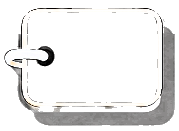
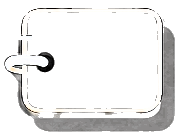
docs(website): plain-language openers, 'elements' instead of markup, Run again keeps typed code, symmetric binder, drop the sidebar mark and the More-from strip

diff --git a/website/scripts/witness.ts b/website/scripts/witness.ts
@@ -718,6 +718,15 @@ try {
 					(await input.inputValue()).includes('let cups = state(0)'),
 				'Code: Reset restores the starter and clears the error',
 			);
+			await retype(codePage, block, 'let cups = state(0)', 'let cups = state(7)');
+			const typed = await input.inputValue();
+			await block.getByRole('button', { name: 'Run again' }).click();
+			await codePage.waitForTimeout(800);
+			check(
+				(await input.inputValue()) === typed && typed.includes('state(7)'),
+				'Code: Run again re-runs the preview and keeps the typed code',
+			);
+			await block.getByRole('button', { name: 'Reset code' }).click();
 			const fullScreen = block.getByRole('button', { name: 'Full screen' });
 			await fullScreen.click();
 			const covered = await block
@@ -1333,20 +1342,6 @@ try {
 			(await heroMug.getAttribute('data-docs-mug')) === 'true',
 			'the landing hero is the Markless mug, and it follows the pointer',
 			String(await heroMug.getAttribute('data-variant')),
-		);
-		const siblingMascots = await page.locator('.more-from img.mascot').evaluateAll((nodes) =>
-			nodes.map((node) => ({
-				src: (node as HTMLImageElement).getAttribute('src'),
-				width: (node as HTMLImageElement).naturalWidth,
-			})),
-		);
-		const tileMugs = await page.locator('.more-from .markless-mug svg.mug').count();
-		check(
-			siblingMascots.length === 3 &&
-				siblingMascots.every((one) => one.width > 0) &&
-				tileMugs === 1,
-			'the More from compiled.run strip shows the Markless mug and three mascots that decode',
-			`${tileMugs} mug, ` + siblingMascots.map((one) => `${one.src}:${one.width}`).join(' '),
 		);
 		const sprites = await page
 			.locator('.sprite img.sprite-ink-light')

diff --git a/website/nav.ts b/website/nav.ts
@@ -48,7 +48,7 @@ export const nav: readonly NavSection[] = [
 				icon: 'what-is-markless',
 				number: '1',
 				description:
-					'What Markless is: components are plain TypeScript functions, state() makes the page follow a value, and one component renders anywhere: a browser, a server, a test or a native screen.',
+					'What Markless is: plain TypeScript, state() keeps the page in step with a value, and the same code runs in a browser, on a server or on your phone.',
 			},
 			{
 				title: 'Your first app',
@@ -57,7 +57,7 @@ export const nav: readonly NavSection[] = [
 				icon: 'first-app',
 				number: '2',
 				description:
-					'Create a multi-page app with npm create markless, start it, and learn the starters, scripts and flags.',
+					'Make a new app with one command, open it in your browser, and change it.',
 			},
 			{
 				title: 'Use Markless in the browser',
@@ -830,7 +830,7 @@ export const uiNav: readonly NavSection[] = [
 				sprite: 'hash',
 				number: '2',
 				description:
-					'A real table with sortable column headers, where the sort state lives on the family and lands in the markup.',
+					'A real table with sortable column headers, where the sort state lives on the family and lands in the elements.',
 			},
 			{
 				title: 'resizable',

diff --git a/website/boxes/sidebar-spa.box.ts b/website/boxes/sidebar-spa.box.ts
@@ -16,7 +16,7 @@ export default box(
 		await expect.page.text(page, 'h1', 'Write a variable. The page follows it.', WAIT);
 		await page.click('.sidebar-summary', WAIT);
 		await page.click('.sidebar a[href="/start/first-app"]', WAIT);
-		await expect.page.text(page, 'h1', 'One command, then a counter on localhost', WAIT);
+		await expect.page.text(page, 'h1', 'Make your first app', WAIT);
 		const documents = (await page.networkRequests()).filter(
 			(request) => request.resourceType === 'Document',
 		);

diff --git a/website/components/docs/code/session.ts b/website/components/docs/code/session.ts
@@ -80,6 +80,10 @@ async function start(box: HTMLElement, starters: readonly CodeFile[]): Promise<C
 
 	const actions: Record<string, () => void> = {
 		reset,
+		refresh() {
+			edited = true;
+			run();
+		},
 		lines() {
 			box.dataset.lines = box.dataset.lines === 'off' ? 'on' : 'off';
 			syncTools();

diff --git a/website/components/docs/code/README.md b/website/components/docs/code/README.md
@@ -6,7 +6,7 @@ Each file is a server-rendered `<textarea readonly>` over the build's highlighte
 one grid cell (`../code-files.tsrx`): the `<pre>` sets the size, the textarea is transparent text
 with a visible caret, and the pane around both scrolls. A reader's first point at or focus into the
 block calls `bootCodeBlock` (`session.ts`), the one entry point every trigger uses. It wires the
-header's Reset, line numbers, edit and full screen buttons, loads the
+header's Run again, Reset, line numbers, edit and full screen buttons, loads the
 highlighter, and removes `readonly`.
 
 `editor.ts` repaints the `<pre>` on each input with `highlight.ts`: shiki's core on its JavaScript
